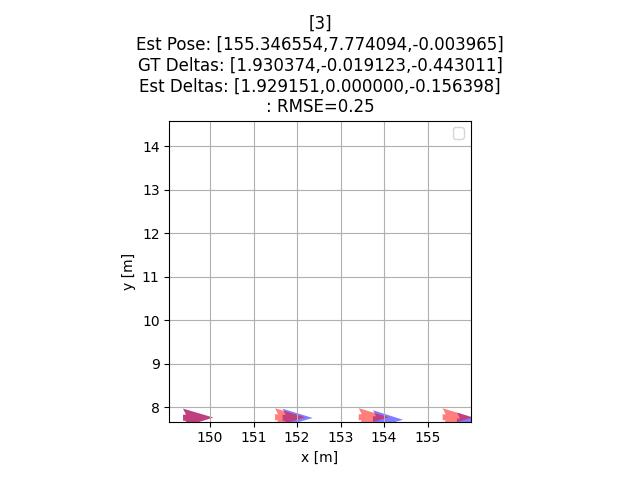
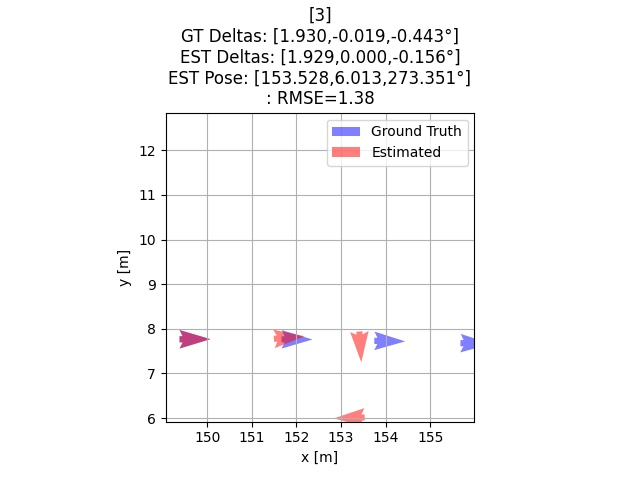
not sure why there are 90deg turns but dth is def off. fixed minor parts for debugging print statements tho

diff --git a/RawROAMSystem.py b/RawROAMSystem.py
@@ -142,10 +142,7 @@ class RawROAMSystem():
 
         timestamp = radarImgPathToTimestamp(imgPathArr[seqInd])
         est_deltas = convertRandHtoDeltas(R, h)
-        dx = est_deltas[0]
-        dy = est_deltas[1]
-        dth = est_deltas[2]
-        self.estTraj.appendRelativeDeltas(timestamp, [dx, dy, dth])
+        self.estTraj.appendRelativeDeltas(timestamp, est_deltas)
         # self.estTraj.appendRelativeTransform(timestamp, R, h)
 
     def plot(self, prevImg, currImg, good_old, good_new, R, h, seqInd):
@@ -168,22 +165,27 @@ class RawROAMSystem():
 
         # Get timestamps for plotting etc
         currTimestamp = radarImgPathToTimestamp(imgPathArr[seqInd])
-        gt_deltas_deg = gtTraj.getGroundTruthDeltasAtTime(currTimestamp)
-        gt_deltas_deg[2] = np.rad2deg(gt_deltas_deg[2])
 
-        est_deltas_deg = convertRandHtoDeltas(R, h)
-        est_deltas_deg[2] = np.rad2deg(est_deltas_deg[2])
+        # debugging information with current poses and relative changes
+        # these are in DEGREES for debugging purposes
+        gt_deltas = gtTraj.getGroundTruthDeltasAtTime(currTimestamp)
+        gt_deltas[2] = np.rad2deg(gt_deltas[2])
+        est_deltas = convertRandHtoDeltas(R, h)
+        est_deltas[2] = np.rad2deg(est_deltas[2])
+        est_pose = estTraj.poses[-1]
+        est_pose[2] = np.rad2deg(est_pose[2])
 
-        print(f"GT Deltas: {f_arr(gt_deltas_deg)} (*dth in degrees)")
-        print(f"Est Deltas: {f_arr(est_deltas_deg)} (*dth in degrees)")
+        print(f"GT Deltas: {f_arr(gt_deltas, th_deg=True)}")
+        print(f"EST Deltas: {f_arr(est_deltas, th_deg=True)}")
+        print(f"EST Pose: {f_arr(est_pose, th_deg=True)}")
 
         # Plot Trajectories
         toSaveTrajPath = os.path.join(trajSavePath, f"{seqInd:04d}.jpg")
         plotGtAndEstTrajectory(gtTraj,
                                estTraj, f'[{seqInd}]\n'
-                               f'Est Pose: {f_arr(estTraj.poses[-1])}\n'
-                               f'GT Deltas: {f_arr(gt_deltas_deg)}\n'
-                               f'Est Deltas: {f_arr(est_deltas_deg)}\n',
+                               f'GT Deltas: {f_arr(gt_deltas, th_deg=True)}\n'
+                               f'EST Deltas: {f_arr(est_deltas, th_deg=True)}\n'
+                               f'EST Pose: {f_arr(est_pose, th_deg=True)}\n',
                                savePath=toSaveTrajPath)
 
 

diff --git a/utils.py b/utils.py
@@ -11,8 +11,11 @@ def tic():
 def toc(tic):
     return time.time() - tic
 
-def f_arr(xs):
-    return '[' + ','.join([f'{x:03f}' for x in xs]) + ']'
+def f_arr(xs, th_deg=False):
+    xs_str = [f'{x:.03f}' for x in xs]
+    if th_deg:
+        xs_str[-1] += '°'
+    return '[' + ','.join(xs_str) + ']'
 
 def radarImgPathToTimestamp(radarImgPath):
     """
@@ -91,7 +94,7 @@ def convertRandHtoDeltas(R, h):
     dth = np.arctan2(R[1,0], R[0,0])
     return np.array([dx, dy, dth])
 
-def quiver(poses, c='r'):
+def quiver(poses, c='r', label='Trajectory'):
     poses = np.array(poses)
     plt.quiver(
         poses[:, 0],
@@ -102,4 +105,5 @@ def quiver(poses, c='r'):
         width=0.02,
         scale=10,
         alpha=.5,
+        label=label,
     )
